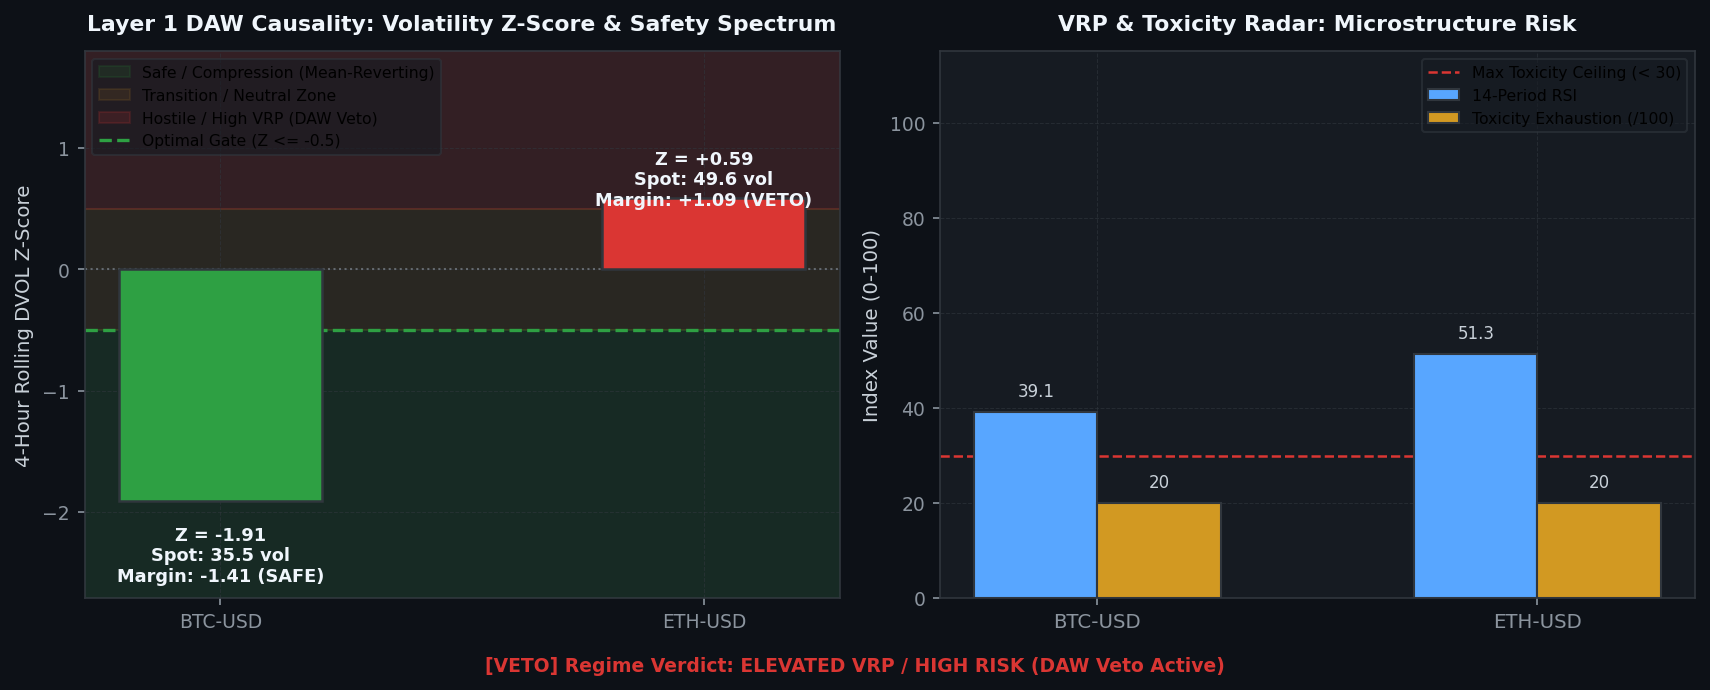
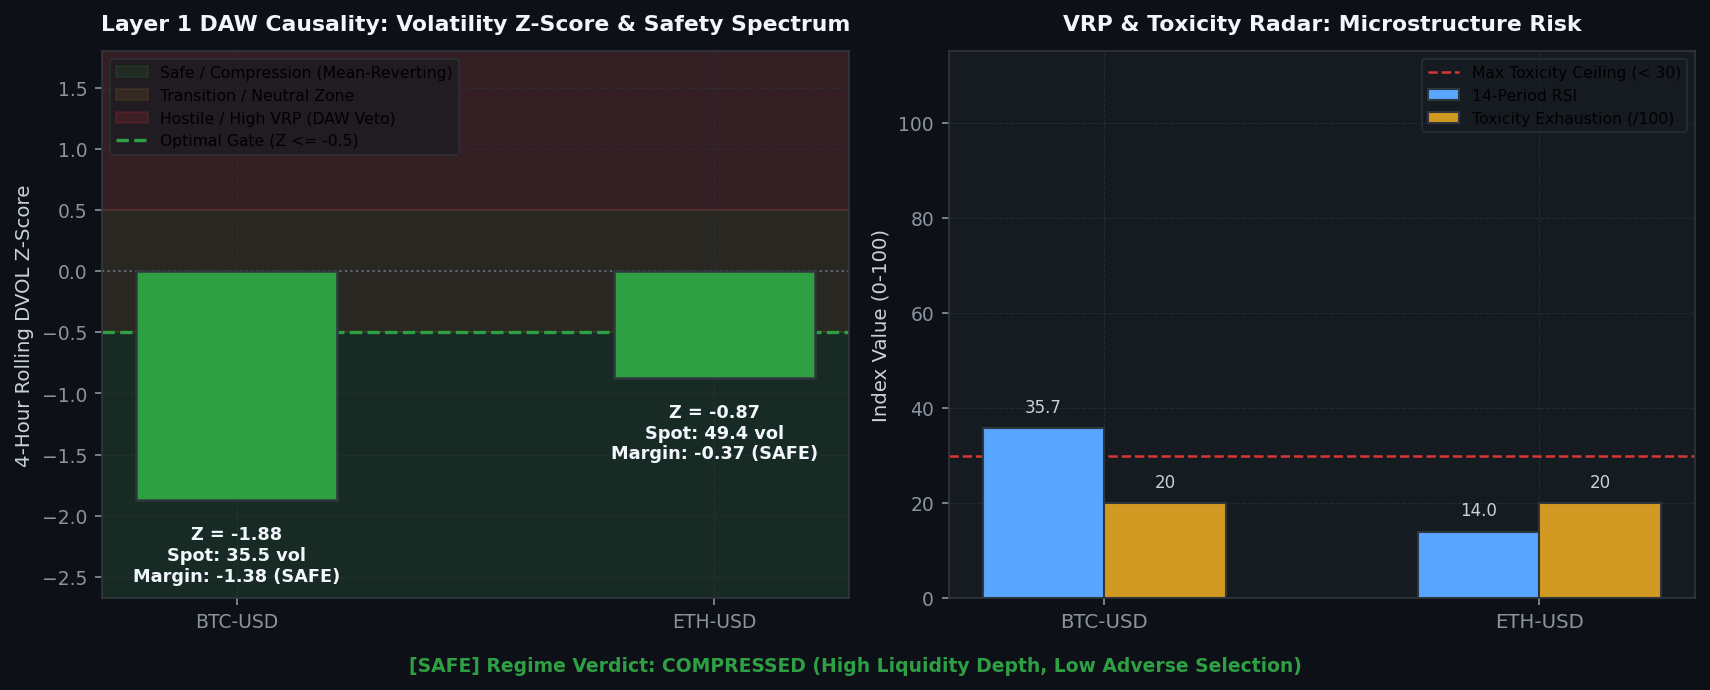
[coinbase] Hourly Status & Visual Intelligence Update: 2026-08-13 00:23:31

diff --git a/coinbase/data/hourly_status_report.md b/coinbase/data/hourly_status_report.md
@@ -1,6 +1,6 @@
 # 🛡 Unified Trading System Hourly Status & Visual Intelligence
-> **Report Generated**: `2026-08-13 12:05:44 AM PDT (2026-08-13 07:05:44 UTC)`  
-> **System Health**: **🟡 DEGRADED / RESTRICTED** | **Win Rate**: `0.0%` | **Completed Trades**: `0`
+> **Report Generated**: `2026-08-13 12:23:15 AM PDT (2026-08-13 07:23:15 UTC)`  
+> **System Health**: **🟢 ALL SYSTEMS NOMINAL** | **Win Rate**: `0.0%` | **Completed Trades**: `0`
 
 ---
 ## 1. ⚡ Macro Volatility & Layer 1 DAW Causal Oracle
@@ -8,8 +8,8 @@ Real-time Deribit implied volatility (DVOL) tracking and causal volatility gatin
 
 | Symbol | Spot DVOL | 4h Rolling Z-Score | 14p RSI | Exhaustion Index | Vol Trend | DAW Safety Verdict |
 | :--- | :--- | :--- | :--- | :--- | :--- | :--- |
-| `BTC-USD` | **35.54** | **-1.91** (≤ -0.5) | 39.1 | 20/100 (< 30) | Compression 📉 | 🟢 Approved |
-| `ETH-USD` | **49.57** | **+0.59** (≤ -0.5) | 51.3 | 20/100 (< 30) | Compression 📉 | 🔴 DAW Vetoed |
+| `BTC-USD` | **35.55** | **-1.79** (≤ -0.5) | 42.4 | 20/100 (< 30) | Compression 📉 | 🟢 Approved |
+| `ETH-USD` | **49.36** | **-0.87** (≤ -0.5) | 14.0 | 20/100 (< 30) | Compression 📉 | 🟢 Approved |
 
 ![DVOL Market Regime](./images/dvol_regime_timeline.png)
 
@@ -21,8 +21,8 @@ The system's Layer 1 DAW Causal Gate continuously gauges execution safety using 
   - 🟡 **Transition ($-0.5 < Z < +0.5$)**: Neutral/shifting volatility; trade pacing is cautious.
   - 🔴 **Hostile / High VRP ($Z \ge +0.5$)**: Options pricing aggressive shock risk. Taker order sweeps cause adverse selection; **DAW Causality Veto is active** to preserve capital.
 > **Current Live Margin of Safety**:
-> - **BTC-USD**: $Z = -1.91$ (Safety Margin: **-1.41** vs. gate $-0.5$) $\rightarrow$ **🟢 SAFE / COMPRESSED**
-> - **ETH-USD**: $Z = +0.59$ (Safety Margin: **+1.09** vs. gate $-0.5$) $\rightarrow$ **🔴 DAW VETOED**
+> - **BTC-USD**: $Z = -1.79$ (Safety Margin: **-1.29** vs. gate $-0.5$) $\rightarrow$ **🟢 SAFE / COMPRESSED**
+> - **ETH-USD**: $Z = -0.87$ (Safety Margin: **-0.37** vs. gate $-0.5$) $\rightarrow$ **🟢 SAFE / COMPRESSED**
 
 ---
 ## 2. 🔒 MLOps & Trading Telemetry Provenance & Utilization Certification: 🟢 ALL SYNCED & CERTIFIED
@@ -30,12 +30,12 @@ We hereby certify that the mission-critical algorithmic data assets uploaded by 
 
 | Status | Data Asset | Freshness / State | Details / Timestamp |
 | :---: | :--- | :--- | :--- |
-| ✅ | **Go-List JSON** | Fresh (10.75h old) | 08-12 13:21 |
-| ✅ | **TimesFM Forecasts** | Fresh (0.06h old) | 08-13 00:02 |
-| ✅ | **Holding Times config** | Fresh (14.44h old) | 08-12 09:39 |
-| ✅ | **BTC DVOL Cache** | Fresh (0.00h old) | 08-13 00:05 |
-| ✅ | **ETH DVOL Cache** | Fresh (0.00h old) | 08-13 00:05 |
-| ✅ | **Live Trading Telemetry** | Fresh (0.00h old) | 08-13 00:05 |
+| ✅ | **Go-List JSON** | Fresh (11.04h old) | 08-12 13:21 |
+| ✅ | **TimesFM Forecasts** | Fresh (0.35h old) | 08-13 00:02 |
+| ✅ | **Holding Times config** | Fresh (14.73h old) | 08-12 09:39 |
+| ✅ | **BTC DVOL Cache** | Fresh (0.01h old) | 08-13 00:23 |
+| ✅ | **ETH DVOL Cache** | Fresh (0.01h old) | 08-13 00:23 |
+| ✅ | **Live Trading Telemetry** | Fresh (0.00h old) | 08-13 00:23 |
 
 <br>
 
@@ -48,7 +48,7 @@ Layer-by-layer tick evaluation waterfall and asset-specific performance tracking
 
 | Funnel Filter Layer | Total Rejections | % of Rejections |
 | :--- | :--- | :--- |
-| Layer 1: DAW Causal Volatility Veto | `122,175` | **99.5%** |
+| Layer 1: DAW Causal Volatility Veto | `122,539` | **99.5%** |
 | Layer 2A: Vol Surface Skew & VRP Gate | `0` | **0.0%** |
 | Layer 2B: DVOL Directional Momentum Bias | `0` | **0.0%** |
 | Layer 2C: KER Efficiency Noise Filter | `0` | **0.0%** |
@@ -105,14 +105,14 @@ Live balance sheet and open maker liquidity positions from Coinbase CDP.
 ## 4. 🤖 Foundation Model MLOps & Pipeline Orchestration
 Weekly Algorithmic Mega Cap selection, Zero-shot multi-step forward return forecasts, and VSTEF parameter grid search status.
 
-- **TimesFM Forecast DB**: 🟢 Updated 0.1h ago (2026-08-13 12:02 AM PDT)
+- **TimesFM Forecast DB**: 🟢 Updated 0.4h ago (2026-08-13 12:02 AM PDT)
 - **Last Weekly VSTEF Optimization**: `2026-08-12 01:22:32 PM PDT`
-- **Next Scheduled VSTEF Run**: `2026-08-16 07:00:00 PM PDT (Monday 02:00 UTC)` (Countdown: **90.9h (3d 18h 54m)**)
+- **Next Scheduled VSTEF Run**: `2026-08-16 07:00:00 PM PDT (Monday 02:00 UTC)` (Countdown: **90.6h (3d 18h 36m)**)
 - **Promoted Parameter Gates**: $Z_{DVOL} \le -0.5$ | Holding Horizon $= 12\text{h}$
 
 ### Algorithmic Mega Cap Selection
 - **Last Run (Confirmation)**: `2026-08-12 02:28:22 PM PDT`
-- **Next Scheduled Run**: `2026-08-16 06:00:00 PM PDT (Monday 01:00 UTC)` (Countdown: **89.9h (3d 17h 54m)**)
+- **Next Scheduled Run**: `2026-08-16 06:00:00 PM PDT (Monday 01:00 UTC)` (Countdown: **89.6h (3d 17h 36m)**)
 - **Selected Mega Cap Universe**: `BTC, ETH, LSETH, LINK, UNI, XRP, SOL, ZEC`
 
 ![TimesFM Forecast Matrix](./images/timesfm_forecast_matrix.png)
@@ -126,19 +126,19 @@ Visualizing the impact of the VSTEF (Volatility-Synchronized Stop-Tightening Exe
 ## 5. 🖥 Multi-Node Infrastructure & Watchdog Matrix
 ```text
 ================================================================================
-   🛡  SFGK FUNNEL GUARDIAN WATCHDOG (HFT ONLY) |  07:05:44 AM
-   CPU:   7.3%  |  MEM:   5.7% (14.5GB / 15.4GB Free)
+   🛡  SFGK FUNNEL GUARDIAN WATCHDOG (HFT ONLY) |  07:23:15 AM
+   CPU:   6.5%  |  MEM:   5.3% (14.6GB / 15.4GB Free)
 ================================================================================
 SERVICE              | PID      | STATUS          | RESTARTS | INFO
 --------------------------------------------------------------------------------
 L3 Consumer          | 920651   | RUNNING         | -        | Continuous Websocket Feed
-Trader AVAX-USD      | 966903   | RUNNING         | 156      | Evaluating Funnel/Polling Order
-Trader ETH-USD       | 966904   | RUNNING         | 156      | Evaluating Funnel/Polling Order
-Trader ADA-USD       | 966905   | RUNNING         | 156      | Evaluating Funnel/Polling Order
-Trader DOGE-USD      | 966906   | RUNNING         | 156      | Evaluating Funnel/Polling Order
-Trader BTC-USD       | 966907   | RUNNING         | 156      | Evaluating Funnel/Polling Order
-Trader LINK-USD      | 966908   | RUNNING         | 156      | Evaluating Funnel/Polling Order
-Trader SOL-USD       | 966909   | RUNNING         | 156      | Evaluating Funnel/Polling Order
+Trader AVAX-USD      | 982082   | COOL-DOWN       | 207      | Next run in 9.9s
+Trader ETH-USD       | 982083   | COOL-DOWN       | 207      | Next run in 9.9s
+Trader ADA-USD       | 982084   | COOL-DOWN       | 207      | Next run in 9.9s
+Trader DOGE-USD      | 982085   | COOL-DOWN       | 207      | Next run in 9.9s
+Trader BTC-USD       | 982086   | COOL-DOWN       | 207      | Next run in 9.9s
+Trader LINK-USD      | 982087   | COOL-DOWN       | 207      | Next run in 9.9s
+Trader SOL-USD       | 982088   | COOL-DOWN       | 207      | Next run in 9.9s
 ================================================================================
 ```
 
